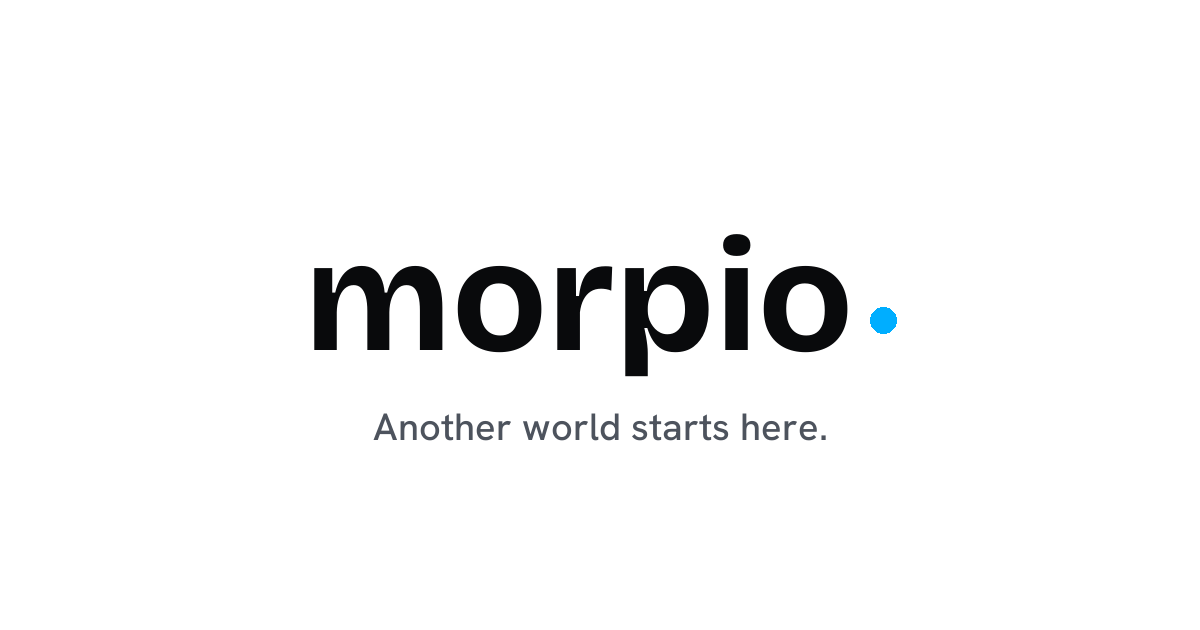
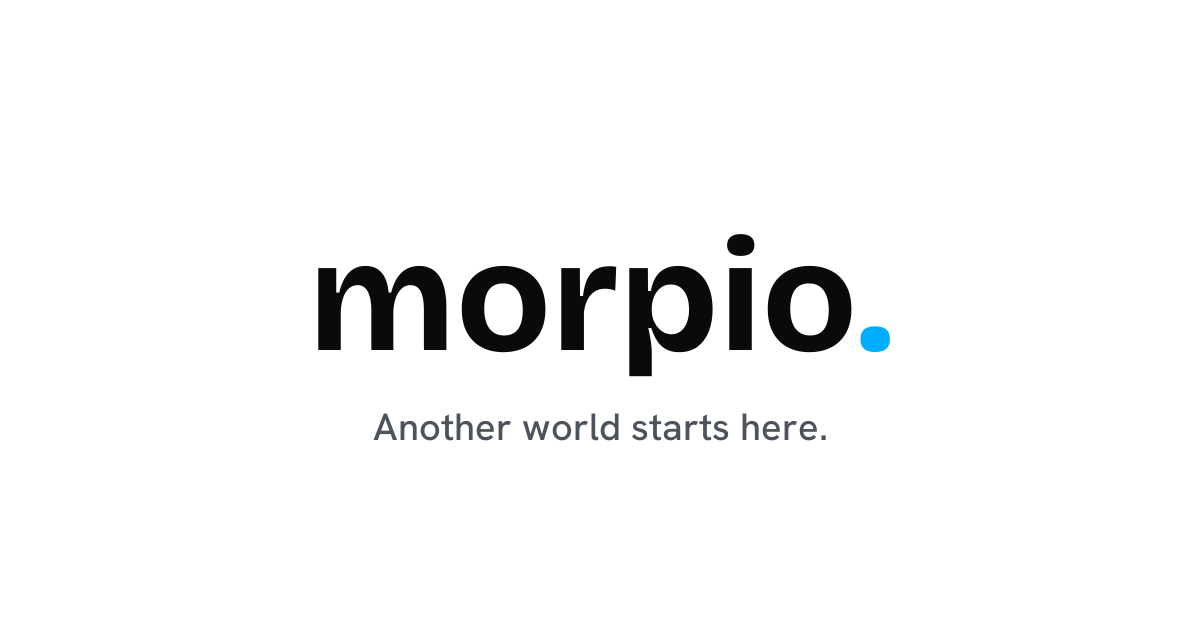
[verified] soften title motion and refine branding

Changed region(s): [[0.2467, 0.4222, 0.7708, 0.6032]]

diff --git a/app/globals.css b/app/globals.css
@@ -388,7 +388,7 @@ img { display: block; width: 100%; height: 100%; object-fit: cover; }
 .hero-state { position: absolute; top: 104px; right: clamp(20px,4vw,64px); color: rgba(255,255,255,.72); font: 600 10px/1 "Geist Mono",monospace; letter-spacing:.08em; }
 .hero-wash { z-index: -2; background: linear-gradient(90deg, rgba(4,7,10,.84) 0%, rgba(4,7,10,.34) 48%, rgba(4,7,10,.08) 75%), linear-gradient(0deg, rgba(4,7,10,.8), transparent 58%); }
 .hero-copy { width: min(860px, 72vw); padding-top: 150px; animation: hero-in .8s var(--ease) both; }
-.hero h1 { margin: 20px 0 26px; max-width: 9ch; color:#fff; font-size: clamp(72px,10vw,154px); line-height: .84; letter-spacing: -.055em; text-wrap: balance; }
+.hero h1 { margin: 20px 0 26px; max-width: 9ch; color:#fff; font-size: clamp(64.8px,9vw,138.6px); line-height: .84; letter-spacing: -.055em; text-wrap: balance; }
 .hero h1 > .hero-last-line { display:inline-flex; align-items:baseline; white-space:nowrap; color:#fff; }
 .hero-period { width:.15em; aspect-ratio:1; margin-left:.02em; display:inline-block; flex:0 0 auto; border-radius:50%; background:var(--sky); vertical-align:.03em; animation:hero-period-blink 1.55s ease-in-out infinite; }
 @keyframes hero-period-blink { 0%,100% { opacity:1; box-shadow:0 0 0 rgba(0,174,255,0); } 50% { opacity:.28; box-shadow:0 0 22px rgba(0,174,255,.8); } }
@@ -406,7 +406,7 @@ img { display: block; width: 100%; height: 100%; object-fit: cover; }
 .feature-heading { display:flex; flex-direction:column; align-items:flex-start; gap:22px; margin-bottom:36px; }
 .feature-heading > div { width:100%; }
 .feature-description { max-width:48ch; }
-.feature-heading h2 { margin: 20px 0 4px; font: 700 clamp(48px,6.4vw,96px)/.92 "Bricolage Grotesque",sans-serif; letter-spacing: -.045em; }
+.feature-heading h2 { margin: 20px 0 4px; font: 700 clamp(43.2px,5.76vw,86.4px)/.92 "Bricolage Grotesque",sans-serif; letter-spacing: -.045em; }
 .feature-subtitle, .feature-description { color: #aeb4bd; }
 .feature-subtitle { margin: 0; font-size: 18px; }
 .feature-description { margin: 0 0 5px; font-size: 17px; line-height: 1.55; }
@@ -426,7 +426,7 @@ img { display: block; width: 100%; height: 100%; object-fit: cover; }
 
 .why-section { padding-top: clamp(92px,9vw,132px); padding-bottom: clamp(92px,9vw,132px); background: #f1f2f4; }
 .why-header { display:flex; flex-direction:column; align-items:flex-start; gap:22px; margin-bottom:64px; }
-.why-header h2 { margin:0; font:700 clamp(52px,6.5vw,100px)/.9 "Bricolage Grotesque",sans-serif; letter-spacing:-.045em; }
+.why-header h2 { margin:0; font:700 clamp(46.8px,5.85vw,90px)/.9 "Bricolage Grotesque",sans-serif; letter-spacing:-.045em; }
 .why-header > p:last-child { max-width:42ch; color:#565c65; font-size:18px; line-height:1.55; }
 .thesis-statements { border-top:1px solid var(--ink); }
 .thesis-statements article { min-height:180px; padding:32px 0; display:grid; grid-template-columns:72px minmax(240px,.8fr) minmax(280px,1fr); gap:4vw; align-items:start; border-bottom:1px solid var(--ink); }
@@ -436,7 +436,7 @@ img { display: block; width: 100%; height: 100%; object-fit: cover; }
 
 .demo-index { padding-top: 78px; padding-bottom: clamp(92px,9vw,132px); }
 .demo-intro { display:flex; flex-direction:column; align-items:flex-start; gap:22px; padding-bottom:56px; }
-.demo-intro h2 { margin:0; font:700 clamp(46px,5.6vw,84px)/.92 "Bricolage Grotesque",sans-serif; letter-spacing:-.04em; }
+.demo-intro h2 { margin:0; font:700 clamp(41.4px,5.04vw,75.6px)/.92 "Bricolage Grotesque",sans-serif; letter-spacing:-.04em; }
 .demo-intro > p:last-child { color:#939aa4; line-height:1.5; }
 .demo-rows { border-top:1px solid #41464e; }
 .demo-row { border-bottom:1px solid #41464e; }
@@ -455,7 +455,7 @@ img { display: block; width: 100%; height: 100%; object-fit: cover; }
 .tech-container { width:100%; max-width:1200px; margin-inline:auto; }
 .tech-section { scroll-margin-top:92px; }
 .process-heading { display:flex; flex-direction:column; align-items:flex-start; gap:22px; margin-bottom:64px; }
-.process-heading h2 { margin:0; font:700 clamp(52px,6.6vw,100px)/.88 "Bricolage Grotesque",sans-serif; letter-spacing:-.045em; }
+.process-heading h2 { margin:0; font:700 clamp(46.8px,5.94vw,90px)/.88 "Bricolage Grotesque",sans-serif; letter-spacing:-.045em; }
 .process-heading > div > p { margin:24px 0 0; max-width:46ch; color:#59606a; font-size:18px; line-height:1.55; }
 .sr-only { position:absolute; width:1px; height:1px; padding:0; margin:-1px; overflow:hidden; clip:rect(0,0,0,0); white-space:nowrap; border:0; }
 .engine-drawing { margin:0; border:1px solid #343943; background:#0d0f12; color:white; box-shadow:0 30px 70px rgba(9,10,12,.16); }
@@ -533,22 +533,22 @@ img { display: block; width: 100%; height: 100%; object-fit: cover; }
 @keyframes engine-control-pulse { 0%,58%,100% { background:transparent; color:#d7dbe0; } 68% { background:rgba(0,174,255,.09); color:white; } }
 
 .studio { padding-top:clamp(92px,9vw,132px); padding-bottom:clamp(92px,9vw,132px); display:grid; grid-template-columns:1.5fr .7fr; gap:8vw; background:white; }
-.studio h2 { margin:18px 0 0; max-width:13ch; font:700 clamp(54px,7vw,108px)/.88 "Bricolage Grotesque",sans-serif; letter-spacing:-.05em; }
+.studio h2 { margin:18px 0 0; max-width:13ch; font:700 clamp(48.6px,6.3vw,97.2px)/.88 "Bricolage Grotesque",sans-serif; letter-spacing:-.05em; }
 .studio-copy { align-self:end; font-size:18px; line-height:1.55; }
 .studio-copy p { margin:0 0 18px; color:#515761; font:400 18px/1.55 "Hanken Grotesk",sans-serif; }
 .studio-copy p:first-child { font-size:18px; color:#515761; }
 .studio-copy a { display:inline-block; margin-top:12px; color:var(--sky); font:600 13px/1 "Geist Mono",monospace; letter-spacing:.06em; }
 .contact { padding-top:clamp(88px,9vw,132px); padding-bottom:clamp(88px,9vw,132px); background:var(--ink); color:white; }
-.contact h2 { margin:24px 0; max-width:12ch; font-size:clamp(58px,9vw,136px); letter-spacing:-.05em; }
+.contact h2 { margin:24px 0; max-width:12ch; font-size:clamp(52.2px,8.1vw,122.4px); letter-spacing:-.05em; }
 .contact-email { display:inline-block; padding-bottom:8px; border-bottom:2px solid var(--sky); font:700 clamp(22px,3vw,42px)/1 "Bricolage Grotesque",sans-serif; }
 .footer { min-height:170px; }
 
 .motion-ready .heading-word { display:inline-block; white-space:nowrap; }
-.motion-ready .hero-last-line .heading-word + .heading-word { margin-left:.15em; }
+.motion-ready .hero-last-line .heading-word + .heading-word { margin-left:.22em; }
 .motion-ready .heading-char {
   --heading-base:#090a0c;
-  --heading-glint:#087eaf;
-  --heading-soft:#65cfff;
+  --heading-glint:#315f70;
+  --heading-soft:#526f79;
   display:inline-block;
   color:var(--heading-base);
   animation:heading-character-glint 5.4s linear infinite;
@@ -560,8 +560,8 @@ img { display: block; width: 100%; height: 100%; object-fit: cover; }
 .motion-ready .demo-index h2 .heading-char,
 .motion-ready .contact h2 .heading-char {
   --heading-base:#fff;
-  --heading-glint:#00aeff;
-  --heading-soft:#c9eeff;
+  --heading-glint:#73c8ed;
+  --heading-soft:#d7f0fb;
 }
 @keyframes heading-character-glint {
   0%,60%,88%,100% { color:var(--heading-base); }
@@ -570,13 +570,13 @@ img { display: block; width: 100%; height: 100%; object-fit: cover; }
 }
 
 @media (min-width:901px) {
-  .hero h1 { font-size:clamp(64.8px,9vw,138.6px); }
-  .feature-heading h2 { font-size:clamp(43.2px,5.76vw,86.4px); }
-  .why-header h2 { font-size:clamp(46.8px,5.85vw,90px); }
-  .demo-intro h2 { font-size:clamp(41.4px,5.04vw,75.6px); }
-  .process-heading h2 { font-size:clamp(46.8px,5.94vw,90px); }
-  .studio h2 { font-size:clamp(48.6px,6.3vw,97.2px); }
-  .contact h2 { font-size:clamp(52.2px,8.1vw,122.4px); }
+  .hero h1 { font-size:clamp(58.32px,8.1vw,124.74px); }
+  .feature-heading h2 { font-size:clamp(38.88px,5.184vw,77.76px); }
+  .why-header h2 { font-size:clamp(42.12px,5.265vw,81px); }
+  .demo-intro h2 { font-size:clamp(37.26px,4.536vw,68.04px); }
+  .process-heading h2 { font-size:clamp(42.12px,5.346vw,81px); }
+  .studio h2 { font-size:clamp(43.74px,5.67vw,87.48px); }
+  .contact h2 { font-size:clamp(46.98px,7.29vw,110.16px); }
 }
 
 @media (max-width:900px) {
@@ -615,20 +615,20 @@ img { display: block; width: 100%; height: 100%; object-fit: cover; }
   .hero-wash { background:linear-gradient(0deg,rgba(4,7,10,.94),rgba(4,7,10,.18) 82%); }
   .hero-copy { width:100%; padding-top:130px; }
   .hero-copy > p:last-child { color:rgba(255,255,255,.94); }
-  .hero h1 { max-width:9ch; font-size:clamp(52px,14.2vw,70px); }
+  .hero h1 { max-width:9ch; font-size:clamp(46.8px,12.78vw,63px); }
   .hero-deck { max-width:31ch; font-size:16px; }
   .hero-controls { bottom:28px; justify-content:space-between; }
-  .feature-heading h2 { font-size:clamp(42px,13vw,60px); }
+  .feature-heading h2 { font-size:clamp(37.8px,11.7vw,54px); }
   .feature-meta { align-items:flex-start; flex-direction:column; }
   .thesis-statements article { min-height:0; padding:26px 0; grid-template-columns:36px 1fr; gap:12px; }
   .thesis-statements h3, .thesis-statements p { grid-column:2; }
   .thesis-statements h3 { font-size:30px; }
-  .demo-intro h2 { font-size:42px; }
+  .demo-intro h2 { font-size:37.8px; }
   .demo-toggle { min-height:118px; grid-template-columns:32px 1fr 72px; gap:12px; }
   .demo-toggle img { width:72px; height:72px; }
   .demo-action { display:none; }
   .demo-media { margin:0 0 22px; }
-  .process-heading h2 { font-size:48px; }
+  .process-heading h2 { font-size:43.2px; }
   .engine-topline span:last-child { display:none; }
   .engine-rail { padding:20px 14px 0; grid-template-columns:repeat(2,minmax(0,1fr)); }
   .engine-stage { min-height:170px; padding:15px 13px; }
@@ -641,8 +641,8 @@ img { display: block; width: 100%; height: 100%; object-fit: cover; }
   .engine-ledger { margin:14px; }
   .engine-ledger > section { padding:18px; }
   .engine-chain { flex-wrap:wrap; justify-content:flex-start; }
-  .studio h2 { font-size:56px; }
-  .contact h2 { font-size:56px; }
+  .studio h2 { font-size:50.4px; }
+  .contact h2 { font-size:50.4px; }
   .footer { min-height:120px; flex-direction:row; align-items:center; justify-content:space-between; gap:12px; }
   .footer > p { align-self:auto; font-size:9px; letter-spacing:.025em; }
 }

diff --git a/scripts/generate-og.py b/scripts/generate-og.py
@@ -7,17 +7,15 @@ d = ImageDraw.Draw(img)
 logo_font = ImageFont.truetype("public/fonts/bricolage-700.ttf", 156)
 tag_font = ImageFont.truetype("public/fonts/hanken-500.ttf", 38)
 logo = "morpio"
+logo_mark = "."
 tag = "Another world starts here."
-logo_box = d.textbbox((0, 0), logo, font=logo_font)
-logo_w = logo_box[2] - logo_box[0]
-logo_h = logo_box[3] - logo_box[1]
-dot_r = 13
-logo_group_w = logo_w + 18 + dot_r * 2
+logo_w = d.textlength(logo, font=logo_font)
+mark_w = d.textlength(logo_mark, font=logo_font)
+logo_group_w = logo_w + mark_w
 logo_x = (W - logo_group_w) / 2
 logo_y = 204
 d.text((logo_x, logo_y), logo, font=logo_font, fill="#090A0C", anchor="la")
-baseline_y = logo_y + logo_h - 14
-d.ellipse((logo_x + logo_w + 18, baseline_y - dot_r * 2, logo_x + logo_w + 18 + dot_r * 2, baseline_y), fill="#00AEFF")
+d.text((logo_x + logo_w, logo_y), logo_mark, font=logo_font, fill="#00AEFF", anchor="la")
 tag_box = d.textbbox((0, 0), tag, font=tag_font)
 tag_w = tag_box[2] - tag_box[0]
 d.text(((W - tag_w) / 2, 402), tag, font=tag_font, fill="#4D535D")
